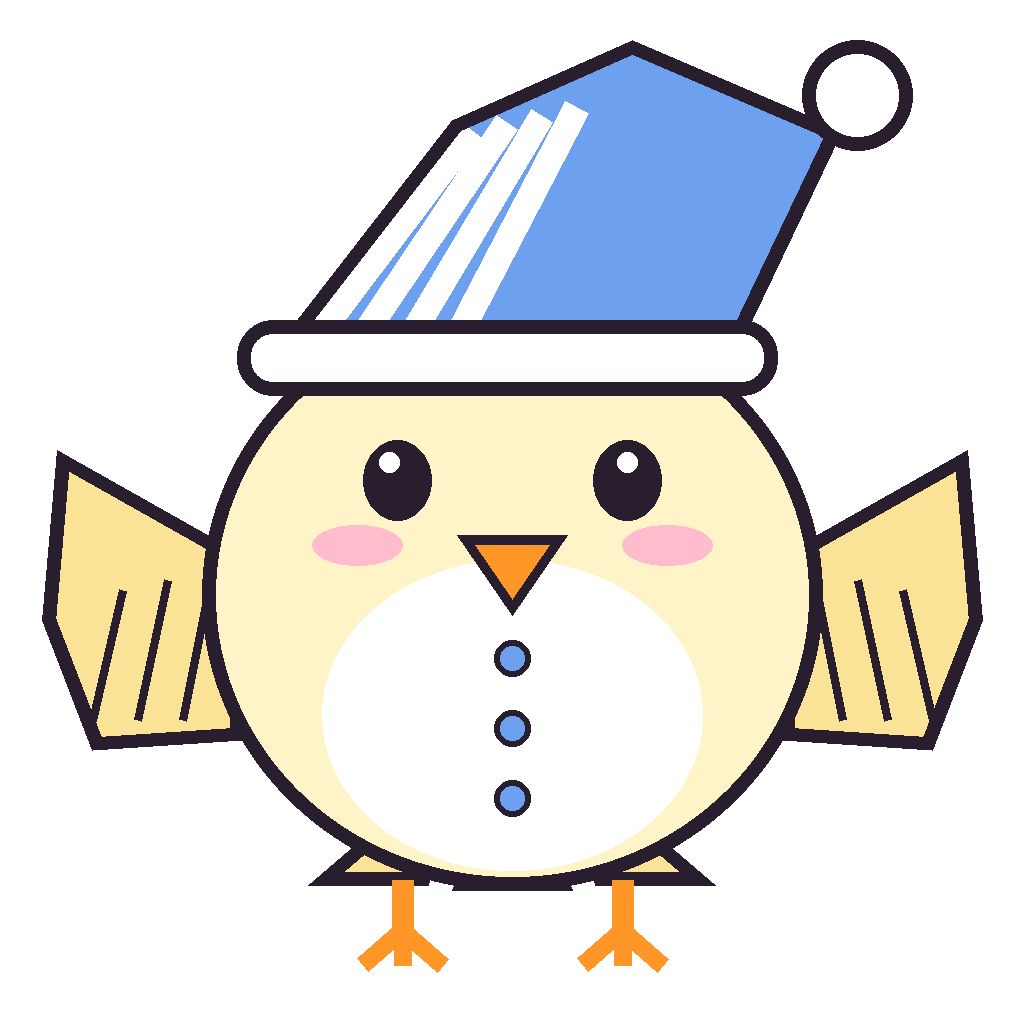
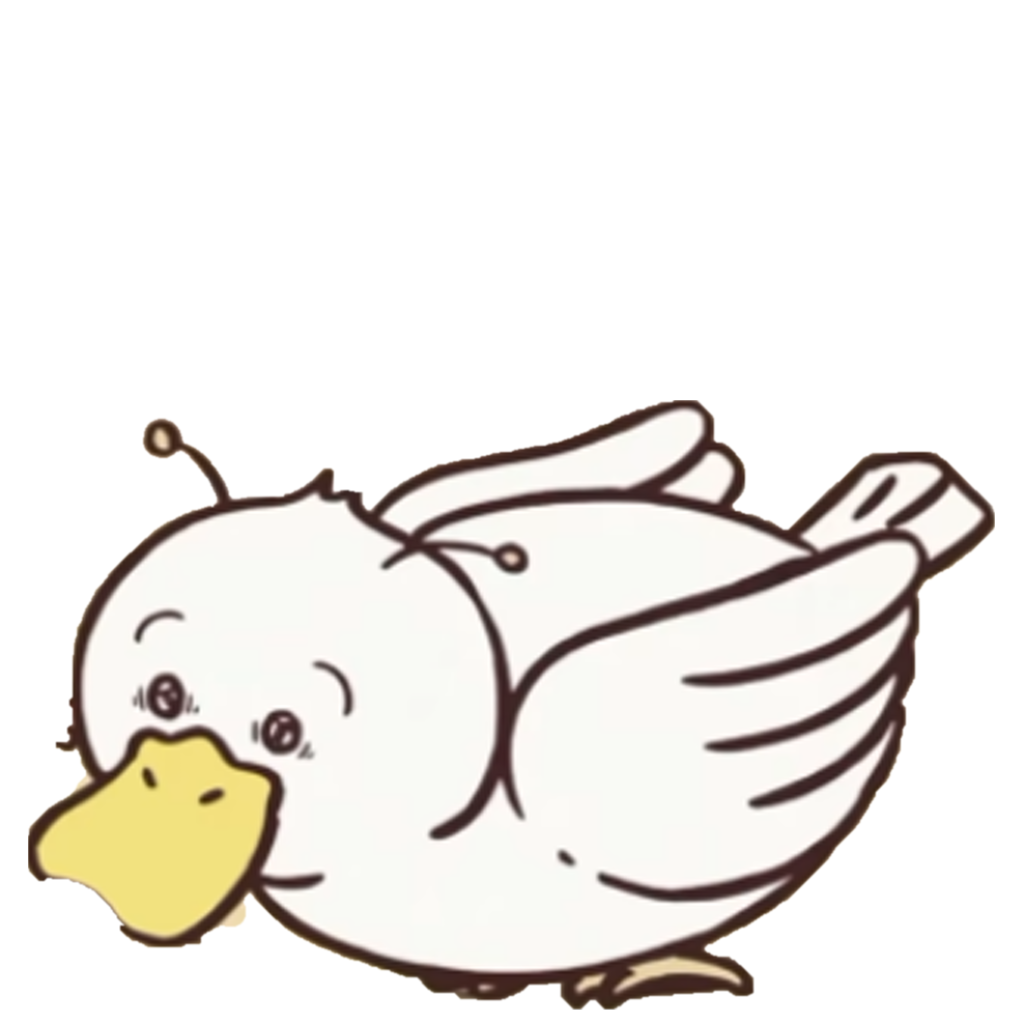
치이카와 3D 월드: 파자마 새 보스 실제 이미지 적용 (평소/급강하 자세, 3페이즈 폭풍 버전)
Claude-Session: https://claude.ai/code/session_012mAm5nYpTJDk8NHdm7oSUC

diff --git a/chiikawa-3d-world/js/coop.js b/chiikawa-3d-world/js/coop.js
@@ -739,7 +739,10 @@ export class CoopManager {
     R.bq = [];
     R.fly = null;
     if (typeof RAIDHQ !== 'undefined') { RAIDHQ.reset(g); RAIDHQ.ensureArena(g); if (RAIDHQ.setTheme) RAIDHQ.setTheme(R.kind); }
-    if (typeof loadCleanCharacterTexture === 'function') loadCleanCharacterTexture(R.cfg.p3tex); // 3페이즈 미리 로드
+    if (typeof loadCleanCharacterTexture === 'function') {
+      loadCleanCharacterTexture(R.cfg.p3tex); // 3페이즈 미리 로드
+      if (R.kind === 'bird') ['assets/raid_bird_dive.png', 'assets/raid_bird_dive_phase3.png'].forEach(u => loadCleanCharacterTexture(u));
+    }
 
     // 진행 중인 스테이지/모달 정리 후 보스 성소로 이동
     if (typeof closeStageSelectModal === 'function') closeStageSelectModal();
@@ -973,7 +976,7 @@ export class CoopManager {
     const tg = g.telegraphs[g.telegraphs.length - 1];
     if (tg) tg.duration = t.dur || tg.duration;
     // 기 모으기 연출 시간을 실제 장판 시간에 맞춤
-    if (t.dur) { R.boss.windupT = t.dur; R.boss.windupMax = t.dur; }
+    if (t.dur && R.kind !== 'bird') { R.boss.windupT = t.dur; R.boss.windupMax = t.dur; } // 새는 붉은 기 모으기 틴트 대신 비행 연출
     R.boss.isWindingUp = false; // 보스는 여러 장판을 동시에 깔 수 있음
   }
 
@@ -1084,7 +1087,7 @@ export class CoopManager {
     R.sendT += dt;
     if (R.sendT >= 0.1) {
       R.sendT = 0;
-      set(this.path('raid/boss'), { x: r2(m.pos.x), z: r2(m.pos.z), yaw: r2(m.facingYaw), hp: Math.max(0, Math.round(m.hp)), ph: phase, h: r2(m.alt || 0), t: this.now() }).catch(() => {});
+      set(this.path('raid/boss'), { x: r2(m.pos.x), z: r2(m.pos.z), yaw: r2(m.facingYaw), hp: Math.max(0, Math.round(m.hp)), ph: phase, h: r2(m.alt || 0), dv: (R.fly || m.landT > 0) ? 1 : 0, t: this.now() }).catch(() => {});
     }
     // 종료 판정
     if (m.hp <= 0) {
@@ -1105,23 +1108,51 @@ export class CoopManager {
   // 🐦 파자마 새 보스 (하늘을 날며 급강하·깃털·회오리·알 폭탄·폭풍)
   // ==================================================================
   // 보스 모습: 고도(alt) + 날갯짓 + 바닥 그림자 (방장/파티원 공통)
+  // 보스 이미지 교체 (평소 ↔ 급강하 자세)
+  setBossTexture(m, url) {
+    if (typeof loadCleanCharacterTexture !== 'function' || !m.mesh) return;
+    if (m._texMesh !== m.mesh) {
+      const bw = m.mesh.userData.bodyWrap;
+      const first = bw && bw.children.find(c => c.material && c.material.map);
+      const base = first && first.material.map;
+      m._texMats = [];
+      if (base) m.mesh.traverse(o => { if (o.material && o.material.map === base) m._texMats.push(o.material); });
+      m._texMesh = m.mesh;
+    }
+    const tex = loadCleanCharacterTexture(url);
+    m._texMats.forEach(mt => { if (mt.map !== tex) mt.map = tex; }); // 같은 종류 텍스처 교체라 재컴파일 불필요 (피격 플래시 셰이더 유지)
+  }
+
   birdVisual(m, dt, t) {
     const R = this.raid;
+    // 피격 플래시가 남아 몸이 분홍빛으로 물들지 않게 서서히 원래 색으로
+    (m.mesh.userData.mats || []).forEach(mm => { const u = mm.userData.fxFlash; if (u && u.uFlash.value > 0 && !mm.userData.fxFlashing) u.uFlash.value = Math.max(0, u.uFlash.value - dt * 4); });
+    // 하늘로 솟구치거나 내리꽂을 때는 날개 편 급강하 이미지
+    const diveNow = (m.alt || 0) > 5;
+    const key = `${diveNow ? 1 : 0}|${R.p3 ? 1 : 0}|${m.mesh && m.mesh.uuid}`;
+    if (m._texKey !== key) {
+      m._texKey = key;
+      this.setBossTexture(m, R.p3 ? (diveNow ? 'assets/raid_bird_dive_phase3.png' : 'assets/raid_bird_phase3.png') : (diveNow ? 'assets/raid_bird_dive.png' : 'assets/raid_bird.png'));
+    }
     const bs = m.baseScale || 1;
     m.sc = THREE.MathUtils.lerp(m.sc || bs, bs, Math.min(1, dt * 6));
     const alt = m.alt || 0;
     const flying = alt > 1.2;
+    // 🦅 급강하 중에는 '날아서 찍는' 이미지로 교체
+    const diving = this.isHost() ? !!(R.fly || (m.landT > 0)) : !!(R.net && R.net.dv);
+    if (m.landT > 0) m.landT -= dt;
+    this.birdPose(m, diving);
     const flapSpd = flying ? 13 : 7;
     const f = Math.sin(t * flapSpd);
-    const diving = R.fly && R.fly.stage === 'down';
-    m.mesh.scale.set(m.sc * (1 + f * 0.05), m.sc * (diving ? 1.12 : 1 - f * 0.06), m.sc);
-    const bob = flying ? Math.sin(t * 2.4) * 0.5 : Math.abs(Math.sin(t * 3)) * 0.25;
+    const plunge = R.fly && R.fly.stage === 'down';
+    m.mesh.scale.set(m.sc * (1 + f * (flying ? 0.05 : 0.02)), m.sc * (plunge ? 1.1 : 1 - f * (flying ? 0.06 : 0.025)), m.sc);
+    const bob = flying ? Math.sin(t * 2.4) * 0.5 : Math.abs(Math.sin(t * 4.5)) * 0.35;
     m.mesh.position.set(m.pos.x, alt + bob, m.pos.z);
     if (R.shadow) {
       R.shadow.position.set(m.pos.x, 0.12, m.pos.z);
       const k = Math.max(0.35, 1 - alt / 26);
       R.shadow.scale.setScalar((m.bodyRadius || 6) * 1.1 * k);
-      R.shadow.material.opacity = 0.25 + 0.3 * (1 - k) + (diving ? 0.2 : 0);
+      R.shadow.material.opacity = 0.25 + 0.3 * (1 - k) + (plunge ? 0.2 : 0);
     }
     // 날갯짓 바람 깃털
     if (typeof FXHQ !== 'undefined' && FXHQ._glow && flying && Math.random() < dt * 8) {
@@ -1129,6 +1160,32 @@ export class CoopManager {
       FXHQ._glow(new THREE.Vector3(m.pos.x + Math.cos(a) * 6, alt + 3 + Math.random() * 6, m.pos.z + Math.sin(a) * 6),
         R.phase >= 3 ? 0xa5b4fc : 0xffffff, new THREE.Vector3(Math.cos(a) * 3, -4, Math.sin(a) * 3), 1.4, 0.7, 6, 'star');
     }
+  }
+
+  birdPose(m, diving) {
+    const R = this.raid;
+    if (typeof loadCleanCharacterTexture !== 'function') return;
+    const p3 = !!R.p3;
+    const key = `${p3 ? 3 : 1}|${diving ? 1 : 0}`;
+    if (m._poseKey === key && m._poseMesh === m.mesh) return;
+    const idleUrl = p3 ? 'assets/raid_bird_phase3.png' : 'assets/raid_bird.png';
+    const diveUrl = p3 ? 'assets/raid_bird_dive_phase3.png' : 'assets/raid_bird_dive.png';
+    const idleTex = loadCleanCharacterTexture(idleUrl);
+    const diveTex = loadCleanCharacterTexture(diveUrl);
+    if (!m._poseMats || m._poseMesh !== m.mesh) {
+      m._poseMats = [];
+      m._poseMesh = m.mesh;
+      m.mesh.traverse(o => {
+        const mats = o.material ? (Array.isArray(o.material) ? o.material : [o.material]) : [];
+        mats.forEach(mt => {
+          if (mt.map && (mt.map === idleTex || mt.map === diveTex)) m._poseMats.push(mt);
+          else if (mt.uniforms) Object.values(mt.uniforms).forEach(u => { if (u && (u.value === idleTex || u.value === diveTex)) m._poseMats.push({ uni: u }); });
+        });
+      });
+    }
+    const tex = diving ? diveTex : idleTex;
+    m._poseMats.forEach(mt => { if (mt.uni) mt.uni.value = tex; else { mt.map = tex; mt.needsUpdate = true; } });
+    m._poseKey = key;
   }
 
   birdAI(m, dt, phase, t) {
@@ -1166,6 +1223,7 @@ export class CoopManager {
         m.alt = 0;
         m.pos.copy(F.to);
         R.fly = null;
+        m.landT = 0.55; // 착지 직후 잠깐 찍는 자세 유지
         if (g) g.camShake = Math.max(g.camShake || 0, 0.6);
       }
       const dir = F.to.clone().sub(m.pos);
@@ -1182,7 +1240,7 @@ export class CoopManager {
         const L = mv.length();
         if (L > 0.1) m.pos.addScaledVector(mv.normalize(), Math.min(L, spd * dt));
       }
-      m.alt = THREE.MathUtils.lerp(m.alt || 0, phase === 3 ? 4 : 2.6, Math.min(1, dt * 3));
+      m.alt = THREE.MathUtils.lerp(m.alt || 0, 0, Math.min(1, dt * 3)); // 평소엔 땅 위를 뒤뚱뒤뚱
       const dir = best.pos.clone().sub(m.pos).setY(0);
       if (dir.lengthSq() > 0.01) m.facingYaw += g.angleDifference(Math.atan2(dir.x, dir.z), m.facingYaw) * Math.min(1, dt * 4);
       if (Math.random() < dt * 0.15) R.orbitDir = -(R.orbitDir || 1);

diff --git a/chiikawa-3d-world/index.html b/chiikawa-3d-world/index.html
@@ -6,7 +6,7 @@
   <title>치이카와 3D 오픈월드 타운: 제초 & 토벌 빌리지 | Chiikawa 3D World</title>
   <link rel="stylesheet" as="style" crossorigin href="https://cdn.jsdelivr.net/gh/orioncactus/pretendard@v1.3.9/dist/web/static/pretendard.css">
   <link href="https://fonts.googleapis.com/css2?family=JetBrains+Mono:wght@600;700;800&display=swap" rel="stylesheet">
-  <link rel="stylesheet" href="css/style.css?v=20261021_15">
+  <link rel="stylesheet" href="css/style.css?v=20261021_16">
 </head>
 <body>
 
@@ -619,23 +619,23 @@
   <script src="https://cdn.jsdelivr.net/npm/three@0.128.0/examples/js/postprocessing/RenderPass.js"></script>
   <script src="https://cdn.jsdelivr.net/npm/three@0.128.0/examples/js/postprocessing/ShaderPass.js"></script>
   <script src="https://cdn.jsdelivr.net/npm/three@0.128.0/examples/js/postprocessing/UnrealBloomPass.js"></script>
-  <script src="js/sound.js?v=20261021_15"></script>
-  <script src="js/models3d.js?v=20261021_15"></script>
-  <script src="js/world_hq.js?v=20261021_15"></script>
-  <script src="js/town_hq.js?v=20261021_15"></script>
-  <script src="js/fx_hq.js?v=20261021_15"></script>
-  <script src="js/polish_hq.js?v=20261021_15"></script>
-  <script src="js/skills_hq.js?v=20261021_15"></script>
-  <script src="js/world_extra.js?v=20261021_15"></script>
-  <script src="js/raid_hq.js?v=20261021_15"></script>
-  <script src="js/minigames.js?v=20261021_15"></script>
-  <script src="js/main.js?v=20261021_15"></script>
-  <script src="js/stage_hq.js?v=20261021_15"></script>
+  <script src="js/sound.js?v=20261021_16"></script>
+  <script src="js/models3d.js?v=20261021_16"></script>
+  <script src="js/world_hq.js?v=20261021_16"></script>
+  <script src="js/town_hq.js?v=20261021_16"></script>
+  <script src="js/fx_hq.js?v=20261021_16"></script>
+  <script src="js/polish_hq.js?v=20261021_16"></script>
+  <script src="js/skills_hq.js?v=20261021_16"></script>
+  <script src="js/world_extra.js?v=20261021_16"></script>
+  <script src="js/raid_hq.js?v=20261021_16"></script>
+  <script src="js/minigames.js?v=20261021_16"></script>
+  <script src="js/main.js?v=20261021_16"></script>
+  <script src="js/stage_hq.js?v=20261021_16"></script>
 
   <!-- Firebase Auth Module -->
   <script type="module">
-    import { FirebaseManager } from './js/auth.js?v=20261021_15';
-    import { CoopManager } from './js/coop.js?v=20261021_15';
+    import { FirebaseManager } from './js/auth.js?v=20261021_16';
+    import { CoopManager } from './js/coop.js?v=20261021_16';
     window.firebaseManager = new FirebaseManager(window.gameApp);
     const startCoop = () => { try { window.coop = new CoopManager(); } catch (e) { console.error('협동 초기화 실패:', e); } };
     if (document.readyState === 'loading') document.addEventListener('DOMContentLoaded', startCoop); else startCoop();
